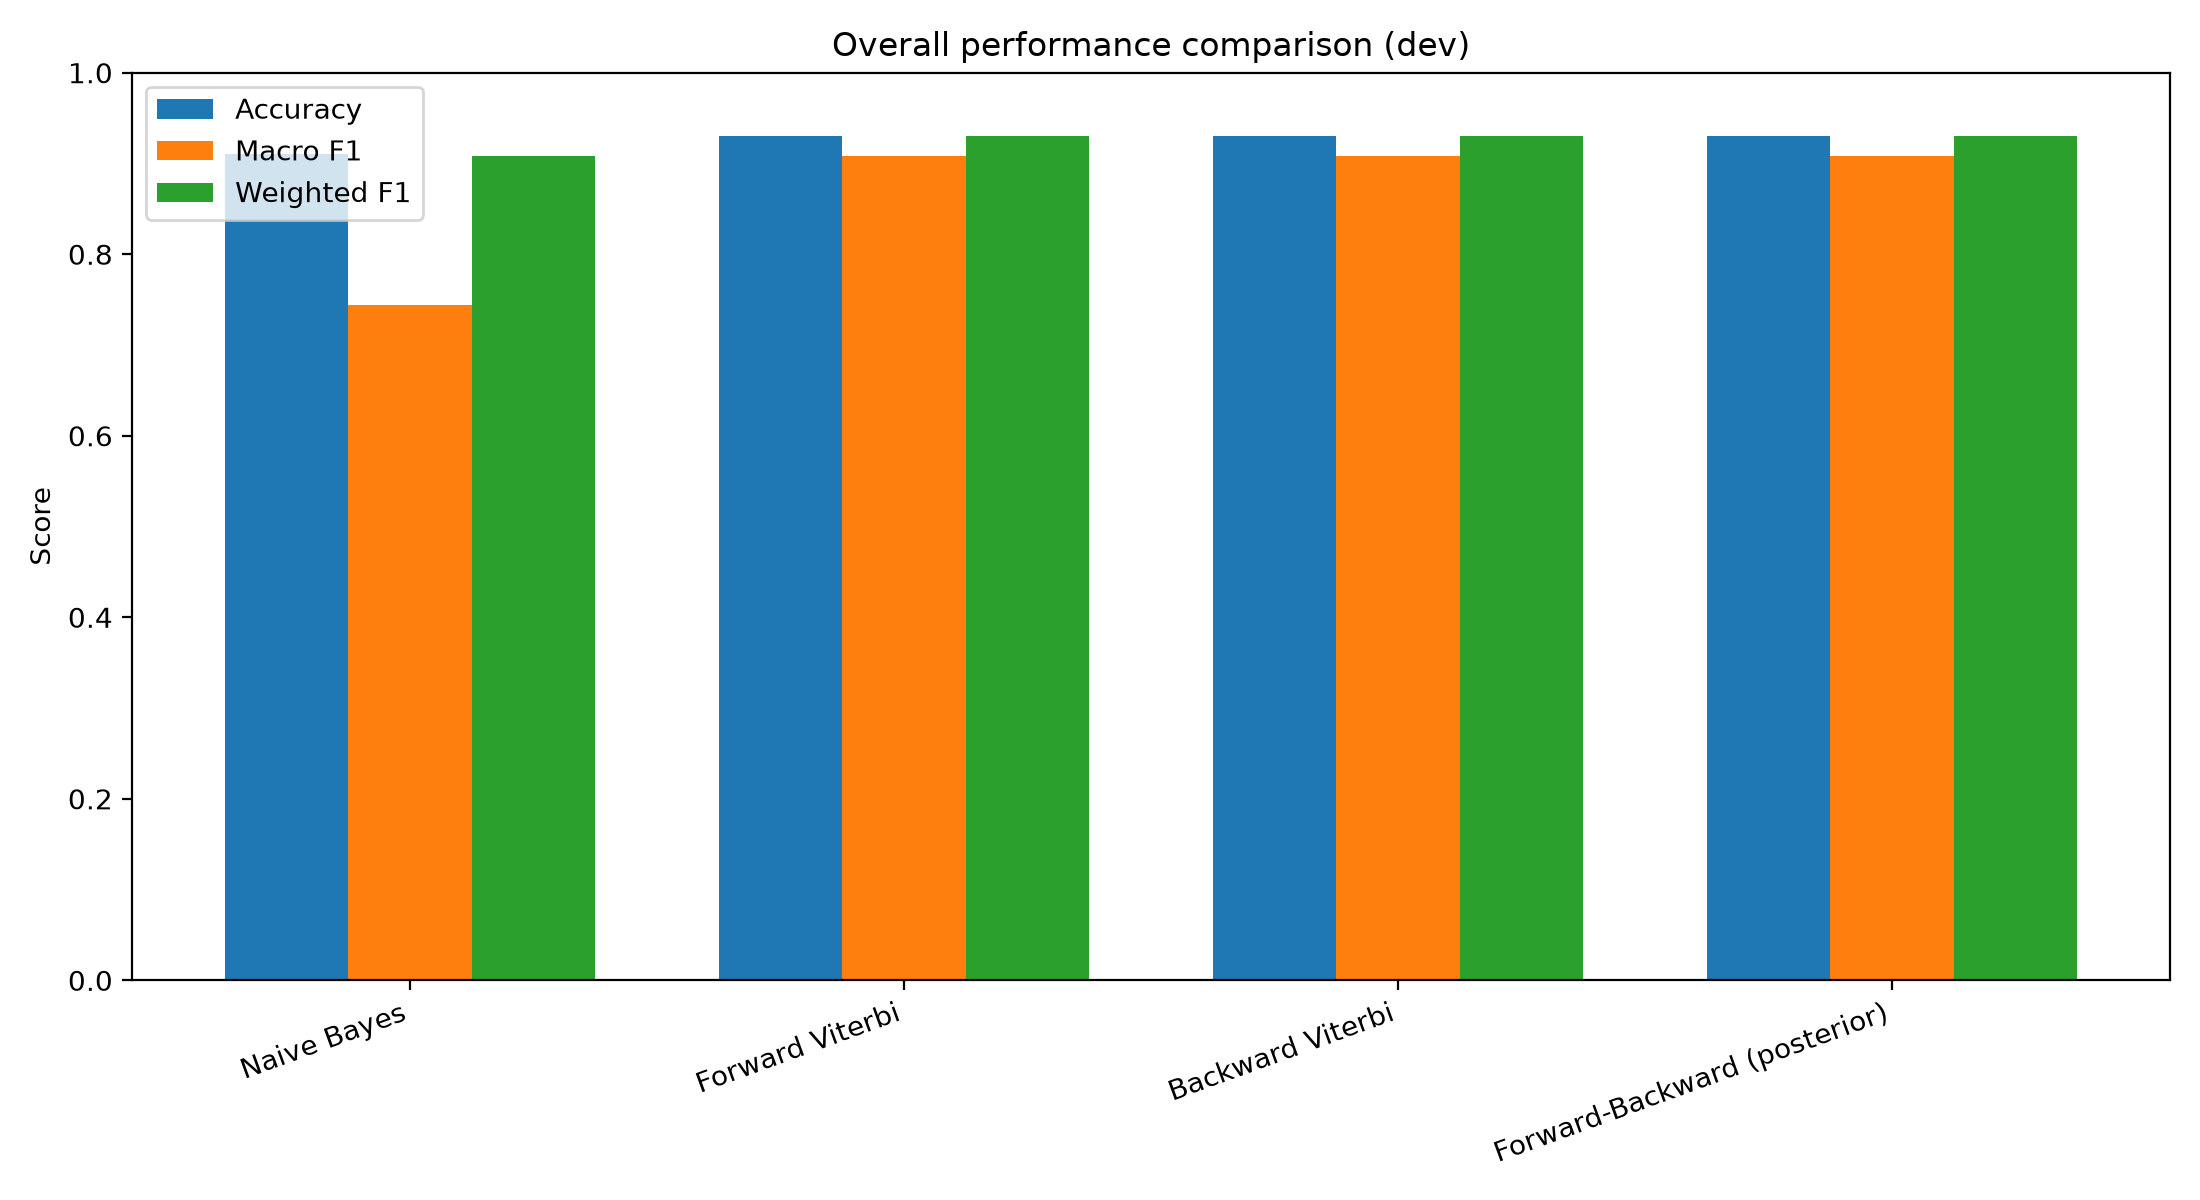
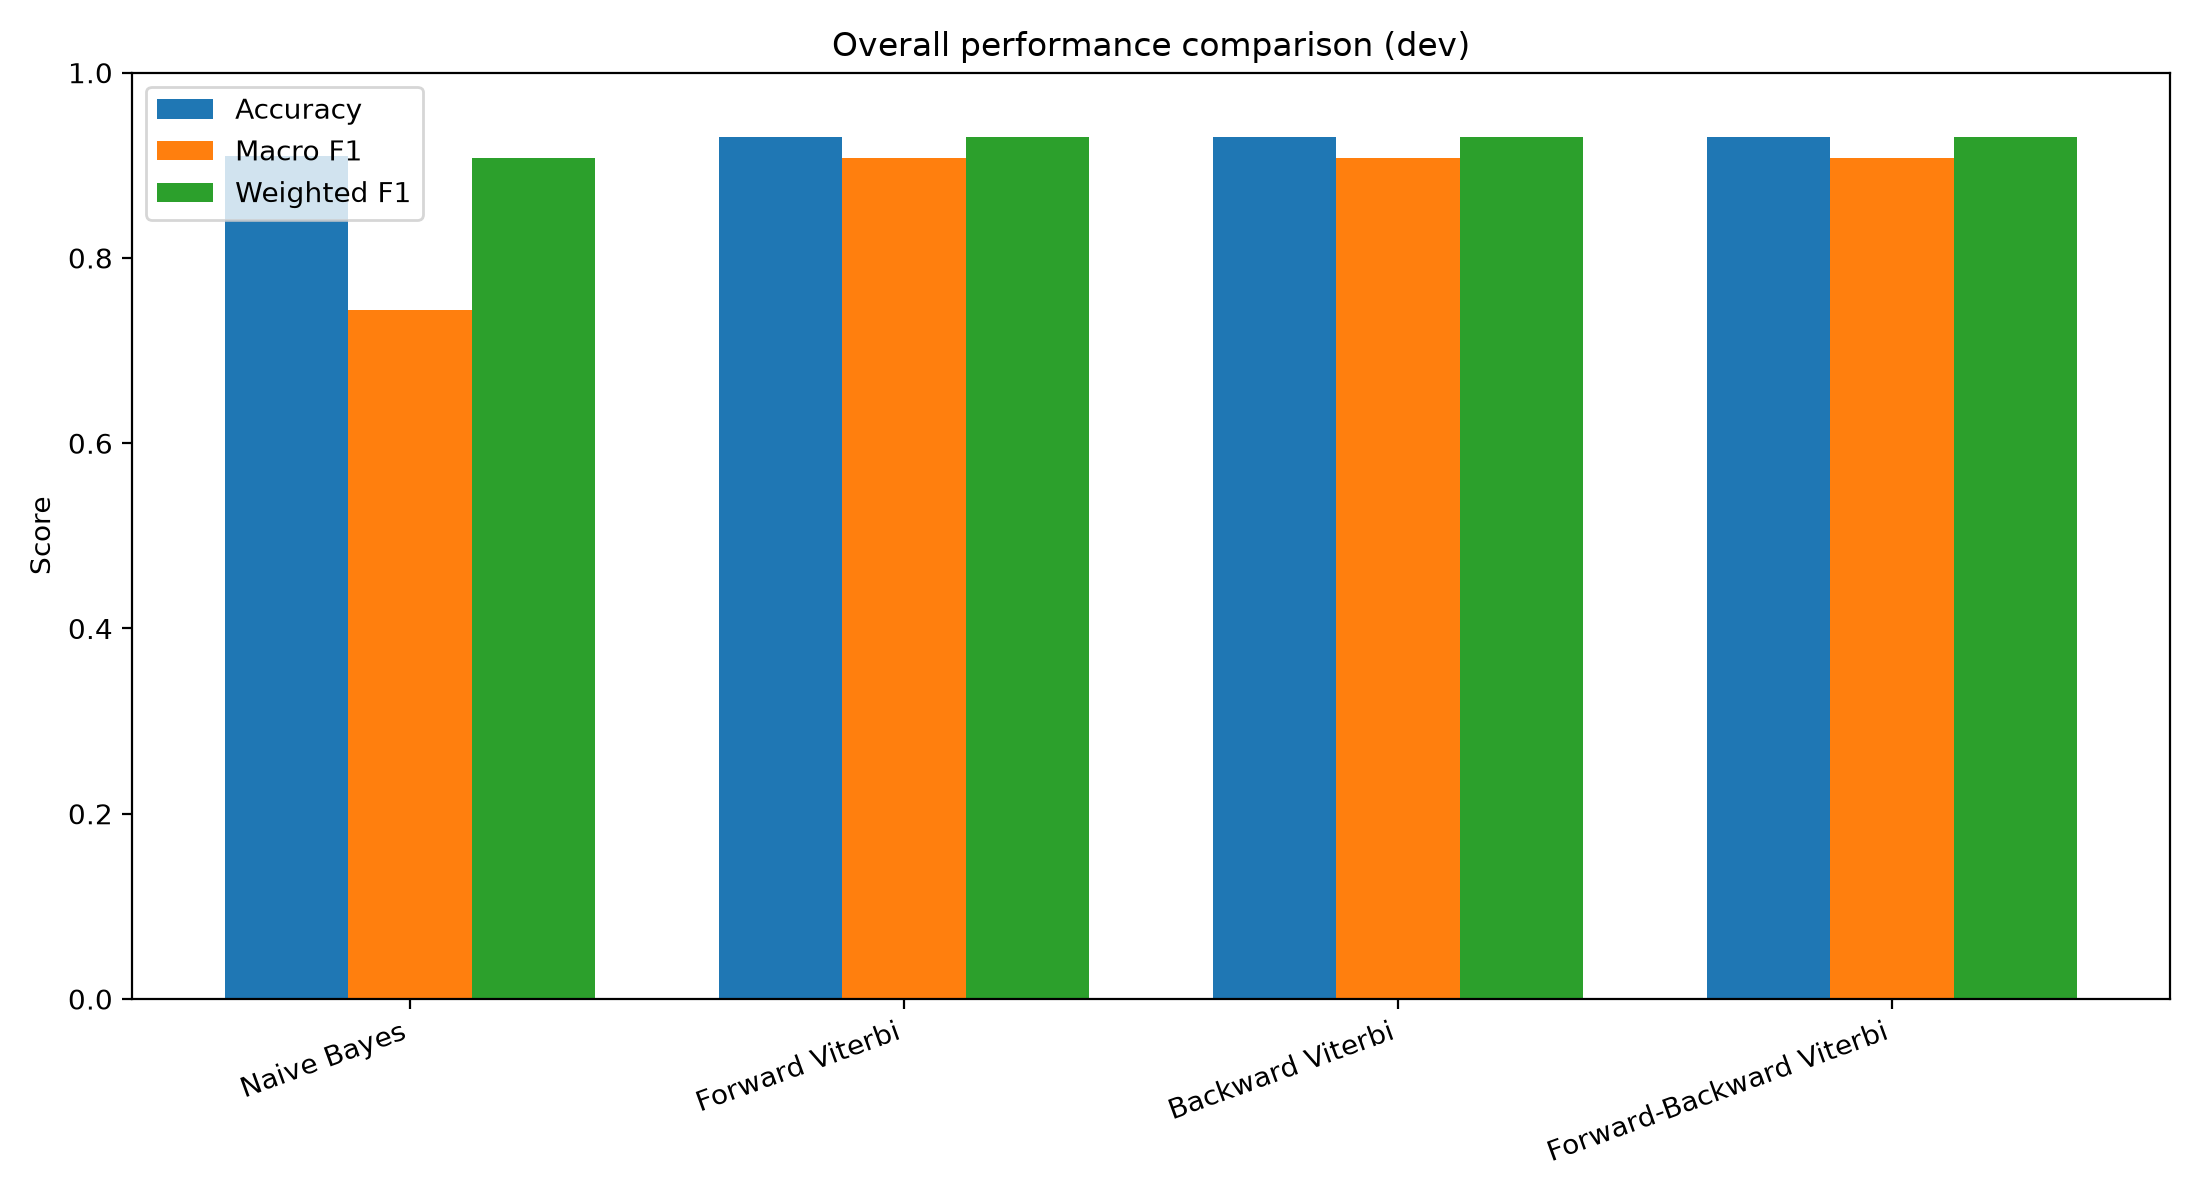
A7

diff --git a/Assignment_7/main.py b/Assignment_7/main.py
@@ -4,7 +4,7 @@ Algorithms:
 1. Greedy Naive Bayes with features: length, word, previous word, next word, previous predicted tag
 2. Forward Viterbi HMM
 3. Backward Viterbi HMM
-4. Forward-Backward HMM (bidirectional contextual tag scoring)
+4. Forward-Backward Viterbi HMM (max-product bidirectional decoding)
 
 Expected input:
 One token per line, with a word and POS tag separated by whitespace or a delimiter.
@@ -225,31 +225,52 @@ class HMMPOSTagger:
             path.append(next_ptr[i][path[-1]])
         return path
 
-    def forward_backward_sentence(self, words):
+    def forward_backward_viterbi_sentence(self, words):
         """
-        Forward-backward posterior decoding: sum over paths in the forward and
-        backward recurrences, then choose the most probable tag at each token.
-        This is not the same objective as Viterbi's best complete sequence.
+        Forward-backward Viterbi (max-product decoding).
+
+        Unlike posterior decoding, this uses MAX over paths rather than
+        log-sum-exp. The forward score includes the best path from the
+        beginning through the current token. The backward score is the
+        best suffix score after the current token (so its emission is not
+        counted twice). For each position, combine the two scores and
+        select the tag with the best complete-path score constrained to
+        that tag at that position.
         """
         if not words:
             return []
+
         n = len(words)
-        fwd, bwd = [{} for _ in range(n)], [{} for _ in range(n)]
+        fwd = [{} for _ in range(n)]
+        bwd = [{} for _ in range(n)]
+
+        # Forward max-product scores: best prefix ending in each tag.
         for t in self.tags:
             fwd[0][t] = self.log_start(t) + self.log_emit(t, words[0])
+
         for i in range(1, n):
             for t in self.tags:
-                fwd[i][t] = self.log_emit(t, words[i]) + logsumexp([
-                    fwd[i-1][p] + self.log_trans(p, t) for p in self.tags
-                ])
+                fwd[i][t] = self.log_emit(t, words[i]) + max(
+                    fwd[i - 1][p] + self.log_trans(p, t)
+                    for p in self.tags
+                )
+
+        # Backward max-product scores: best suffix after each current tag.
+        # The emission at position i is deliberately excluded from bwd[i].
         for t in self.tags:
-            bwd[n-1][t] = 0.0
-        for i in range(n-2, -1, -1):
+            bwd[n - 1][t] = 0.0
+
+        for i in range(n - 2, -1, -1):
             for t in self.tags:
-                bwd[i][t] = logsumexp([
-                    self.log_trans(t, q) + self.log_emit(q, words[i+1]) + bwd[i+1][q]
+                bwd[i][t] = max(
+                    self.log_trans(t, q)
+                    + self.log_emit(q, words[i + 1])
+                    + bwd[i + 1][q]
                     for q in self.tags
-                ])
+                )
+
+        # Max-product score of the best complete path constrained to each
+        # possible tag at this position. No posterior normalization/summing.
         return [
             max(self.tags, key=lambda t: fwd[i][t] + bwd[i][t])
             for i in range(n)
@@ -259,7 +280,7 @@ class HMMPOSTagger:
         method = {
             "forward": self.forward_viterbi_sentence,
             "backward": self.backward_viterbi_sentence,
-            "forward_backward": self.forward_backward_sentence,
+            "forward_backward": self.forward_backward_viterbi_sentence,
         }[algorithm]
         return [method([w for w, _ in s]) for s in sentences]
 
@@ -353,7 +374,7 @@ def main():
         ("Naive Bayes", lambda data: nb.predict(data)),
         ("Forward Viterbi", lambda data: hmm.predict(data, "forward")),
         ("Backward Viterbi", lambda data: hmm.predict(data, "backward")),
-        ("Forward-Backward (posterior)", lambda data: hmm.predict(data, "forward_backward")),
+        ("Forward-Backward Viterbi", lambda data: hmm.predict(data, "forward_backward")),
     ]
     all_rows, summaries = [], []
     for split, dataset in (("dev", dev), ("test", test)):
@@ -374,7 +395,7 @@ def main():
     print(f"\nDone. Results saved in: {out.resolve()}")
     print("Files: per_tag_metrics.csv, summary_metrics.csv, summary_metrics.json")
     print("Graphs: tag_f1_dev.png, tag_f1_test.png, overall_metrics_dev.png, overall_metrics_test.png")
-    print("Note: Forward-backward uses posterior decoding, not Viterbi sequence decoding.")
+    print("Note: Forward-Backward Viterbi uses max-product scores, not posterior marginals.")
 
 
 if __name__ == "__main__":
